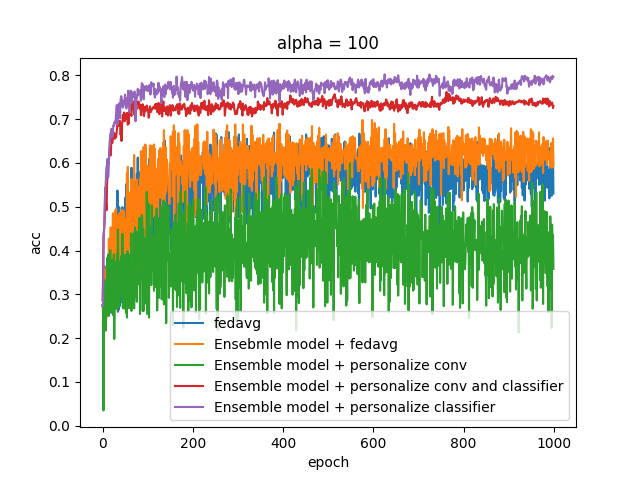
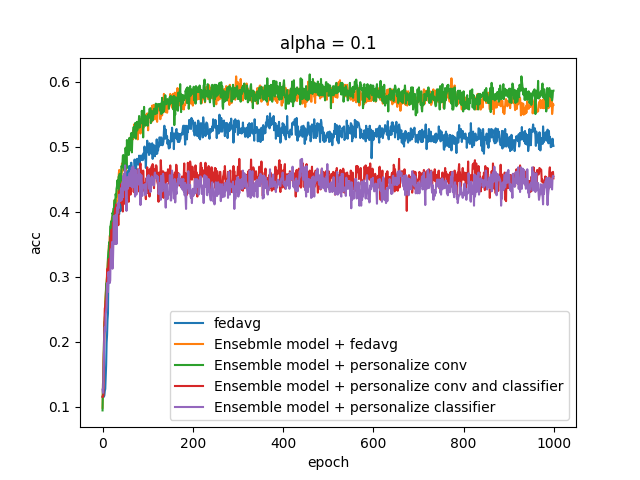
update

diff --git a/show_result.py b/show_result.py
@@ -14,11 +14,11 @@ os.environ['KMP_DUPLICATE_LIB_OK'] = 'TRUE'
 if __name__ == '__main__':
 
     file_name = [
-        f'Z:\zhangxingyan\Fed_ensemble\save/Result_dataset(cifar10)_R(1000)_N(4)_E(1)_trainnum(1000)_P(1)_lr(0.01)_name(cifar10_alpha_d_0.1_P_1).json',
-        f'Z:\zhangxingyan\Fed_ensemble\save/Result_dataset(cifar10)_R(1000)_N(4)_E(1)_trainnum(1000)_P(2)_lr(0.01)_name(cifar10_alpha_d_0.1_P_2).json',
-        f'Z:\zhangxingyan\Fed_ensemble\save/Result_dataset(cifar10)_R(1000)_N(4)_E(1)_trainnum(1000)_P(3)_lr(0.01)_name(cifar10_alpha_d_0.1_P_3).json',
-        f'Z:\zhangxingyan\Fed_ensemble\save/Result_dataset(cifar10)_R(1000)_N(4)_E(1)_trainnum(1000)_P(4)_lr(0.01)_name(cifar10_alpha_d_0.1_P_4).json',
-        f'Z:\zhangxingyan\Fed_ensemble\save/Result_dataset(cifar10)_R(1000)_N(4)_E(1)_trainnum(1000)_P(5)_lr(0.01)_name(cifar10_alpha_d_0.1_P_5).json',
+        f'Z:\zhangxingyan\Fed_ensemble\save/Result_dataset(cifar10)_R(1000)_N(4)_E(1)_trainnum(1000)_P(1)_lr(0.01)_name(cifar10_alpha_d_100_P_1).json',
+        f'Z:\zhangxingyan\Fed_ensemble\save/Result_dataset(cifar10)_R(1000)_N(4)_E(1)_trainnum(1000)_P(2)_lr(0.01)_name(cifar10_alpha_d_100_P_2).json',
+        f'Z:\zhangxingyan\Fed_ensemble\save/Result_dataset(cifar10)_R(1000)_N(4)_E(1)_trainnum(1000)_P(3)_lr(0.01)_name(cifar10_alpha_d_100_P_3).json',
+        f'Z:\zhangxingyan\Fed_ensemble\save/Result_dataset(cifar10)_R(1000)_N(4)_E(1)_trainnum(1000)_P(4)_lr(0.01)_name(cifar10_alpha_d_100_P_4).json',
+        f'Z:\zhangxingyan\Fed_ensemble\save/Result_dataset(cifar10)_R(1000)_N(4)_E(1)_trainnum(1000)_P(5)_lr(0.01)_name(cifar10_alpha_d_100_P_5).json',
 
     ]
     name = ["fedavg","Ensebmle model + fedavg","Ensemble model + personalize conv","Ensemble model + personalize conv and classifier","Ensemble model + personalize classifier"]
@@ -45,7 +45,7 @@ if __name__ == '__main__':
         plt.ylabel('acc')
         plt.legend()
     # plt.title('mnist dataset dirichlet alpha=100')
-    plt.title('alpha = 100')
+    plt.title('alpha = 0.1')
     # plt.title('cifar10 CNN alpha = 0.1')
     # plt.show()
     plt.savefig('test.png')

diff --git a/readme.md b/readme.md
@@ -25,8 +25,8 @@
 
         python3 main.py  --dataset cifar10 --num_classes 10 --epochs 1000 --num_users 4 --local_ep 1 --local_bs 100 --train_num 1000 --lr 0.01 \
         --policy 4   \
-        --iid 0 --noniid dirichlet --alpha 1  \
-        --name cifar10_alpha_d_1_P_4
+        --iid 0 --noniid dirichlet --alpha 0.1  \
+        --name cifar10_alpha_d_0.1_P_4
 
         python3 main.py  --dataset cifar10 --num_classes 10 --epochs 1000 --num_users 4 --local_ep 1 --local_bs 100 --train_num 1000 --lr 0.01 \
         --policy 5   \
@@ -34,4 +34,5 @@
         --name cifar10_alpha_d_1_P_5
 
 ### 目前的实验结果
-![img_1.png](img_1.png)
+
+![img_2.png](img_2.png)
